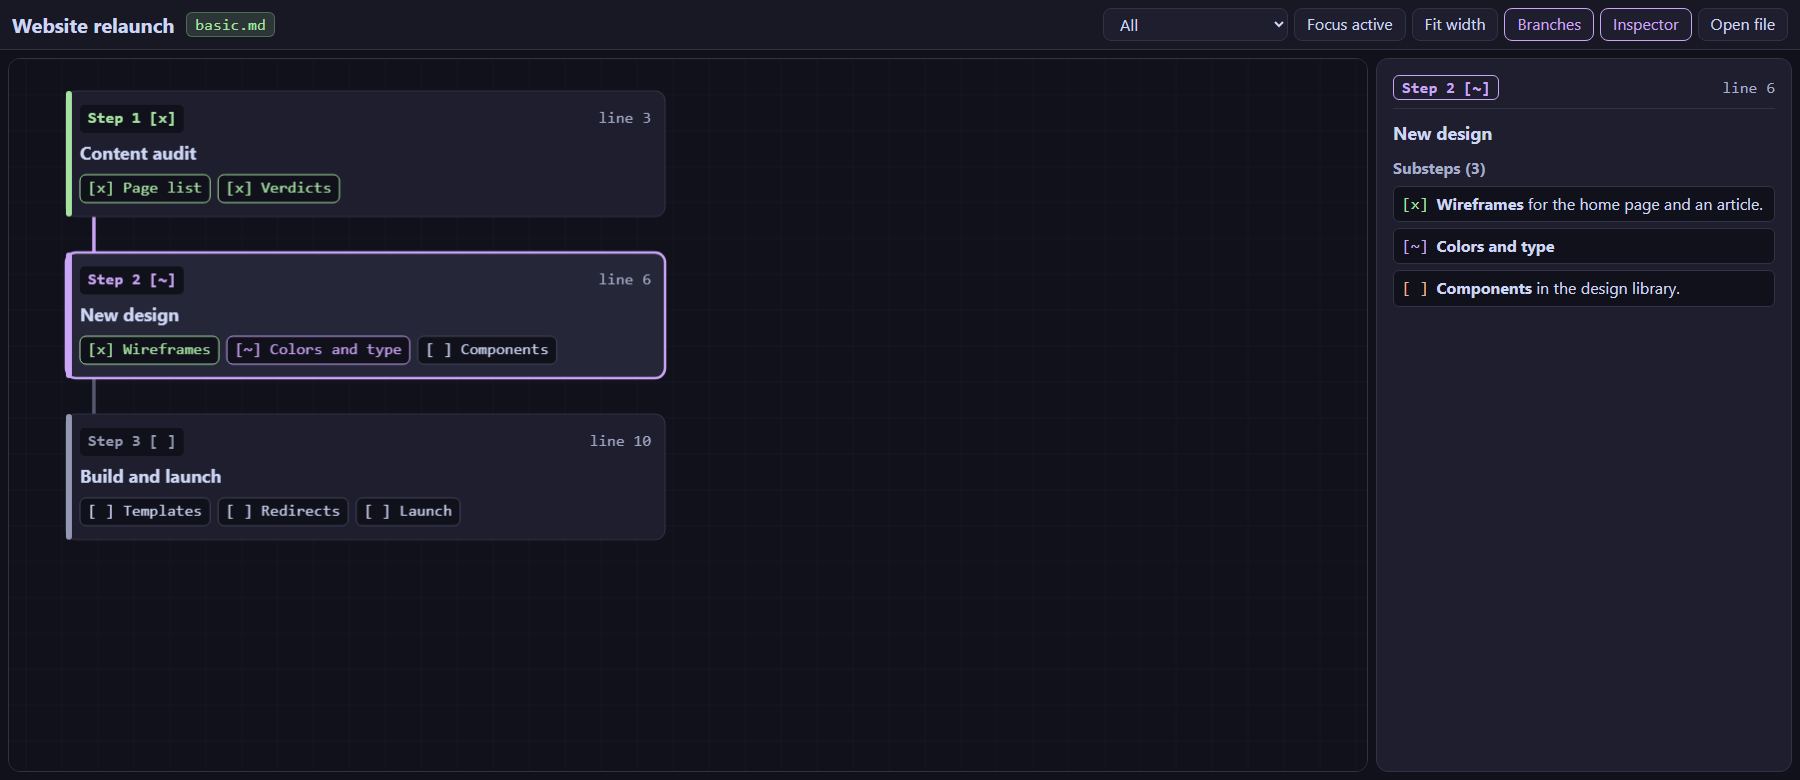
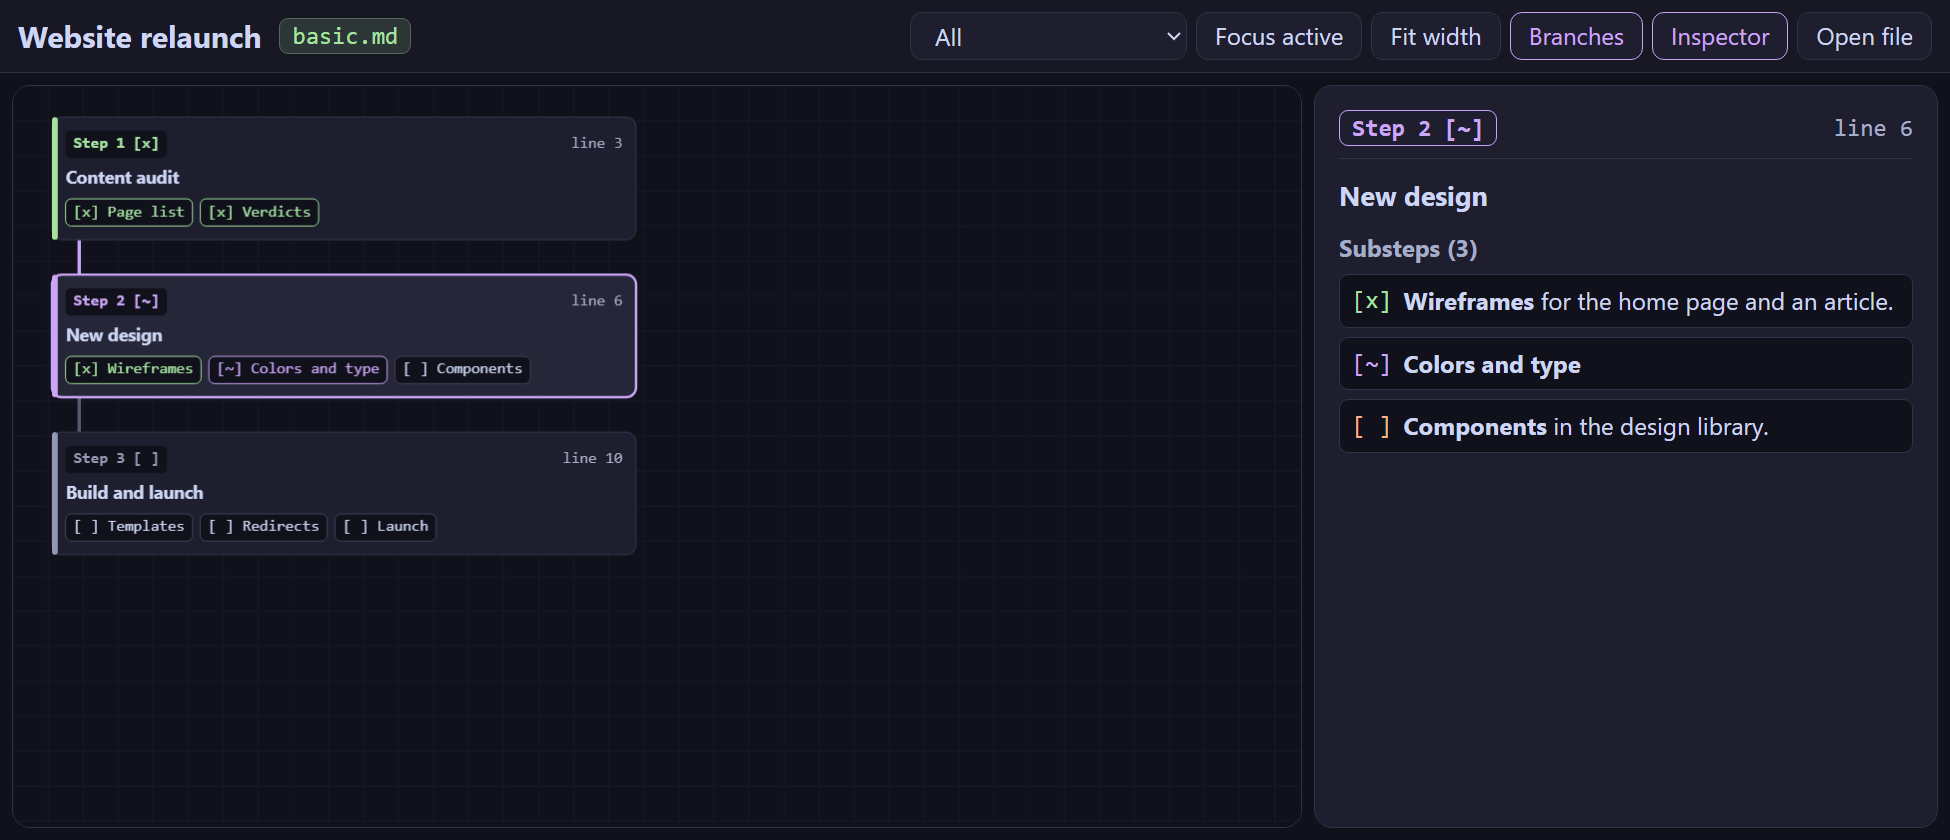
Open at 65 % zoom

diff --git a/examples/project.html b/examples/project.html
@@ -378,6 +378,7 @@
     const STEP_GAP = 36;
     const GATE_H = 32;
     const GRID_STEP = 36;
+    const OPEN_ZOOM = 0.65;
     const MIN_ZOOM = 0.3;
     const MAX_ZOOM = 2;
     const CLICK_SLOP = 5;
@@ -1012,7 +1013,7 @@
       const target = layout.boxes.find(box => box.node.status === "active")
         || layout.boxes.find(box => box.node.kind === "step" && box.node.status !== "done")
         || layout.boxes[0];
-      placeCamera(1);
+      placeCamera(OPEN_ZOOM);
       if (target) {
         const viewH = document.getElementById("canvas-wrapper").getBoundingClientRect().height / zoom;
         camY = -Math.max(0, Math.min(target.y - 40, layout.height - viewH));

diff --git a/examples/basic.html b/examples/basic.html
@@ -351,6 +351,7 @@
     const STEP_GAP = 36;
     const GATE_H = 32;
     const GRID_STEP = 36;
+    const OPEN_ZOOM = 0.65;
     const MIN_ZOOM = 0.3;
     const MAX_ZOOM = 2;
     const CLICK_SLOP = 5;
@@ -985,7 +986,7 @@
       const target = layout.boxes.find(box => box.node.status === "active")
         || layout.boxes.find(box => box.node.kind === "step" && box.node.status !== "done")
         || layout.boxes[0];
-      placeCamera(1);
+      placeCamera(OPEN_ZOOM);
       if (target) {
         const viewH = document.getElementById("canvas-wrapper").getBoundingClientRect().height / zoom;
         camY = -Math.max(0, Math.min(target.y - 40, layout.height - viewH));

diff --git a/roadmap.html b/roadmap.html
@@ -336,6 +336,7 @@
     const STEP_GAP = 36;
     const GATE_H = 32;
     const GRID_STEP = 36;
+    const OPEN_ZOOM = 0.65;
     const MIN_ZOOM = 0.3;
     const MAX_ZOOM = 2;
     const CLICK_SLOP = 5;
@@ -970,7 +971,7 @@
       const target = layout.boxes.find(box => box.node.status === "active")
         || layout.boxes.find(box => box.node.kind === "step" && box.node.status !== "done")
         || layout.boxes[0];
-      placeCamera(1);
+      placeCamera(OPEN_ZOOM);
       if (target) {
         const viewH = document.getElementById("canvas-wrapper").getBoundingClientRect().height / zoom;
         camY = -Math.max(0, Math.min(target.y - 40, layout.height - viewH));

diff --git a/README.md b/README.md
@@ -50,7 +50,7 @@ A task, note, before or after marker on a heading applies to every top-level ite
 ## Controls
 
 - The filter keeps all items, the open and active ones, or the done ones. Its last choice keeps the steps with tasks or notes, and the bands.
-- **Focus active** scrolls to the first active item at 100 %, or to the first step left open.
+- **Focus active** scrolls to the first active item at 65 %, or to the first step left open. The page also opens this way.
 - **Fit width** zooms out until both columns fit.
 - **Branches** hides or shows the tasks and notes beside the steps.
 - **Inspector** hides or shows the side panel with the full text of the selected box.
